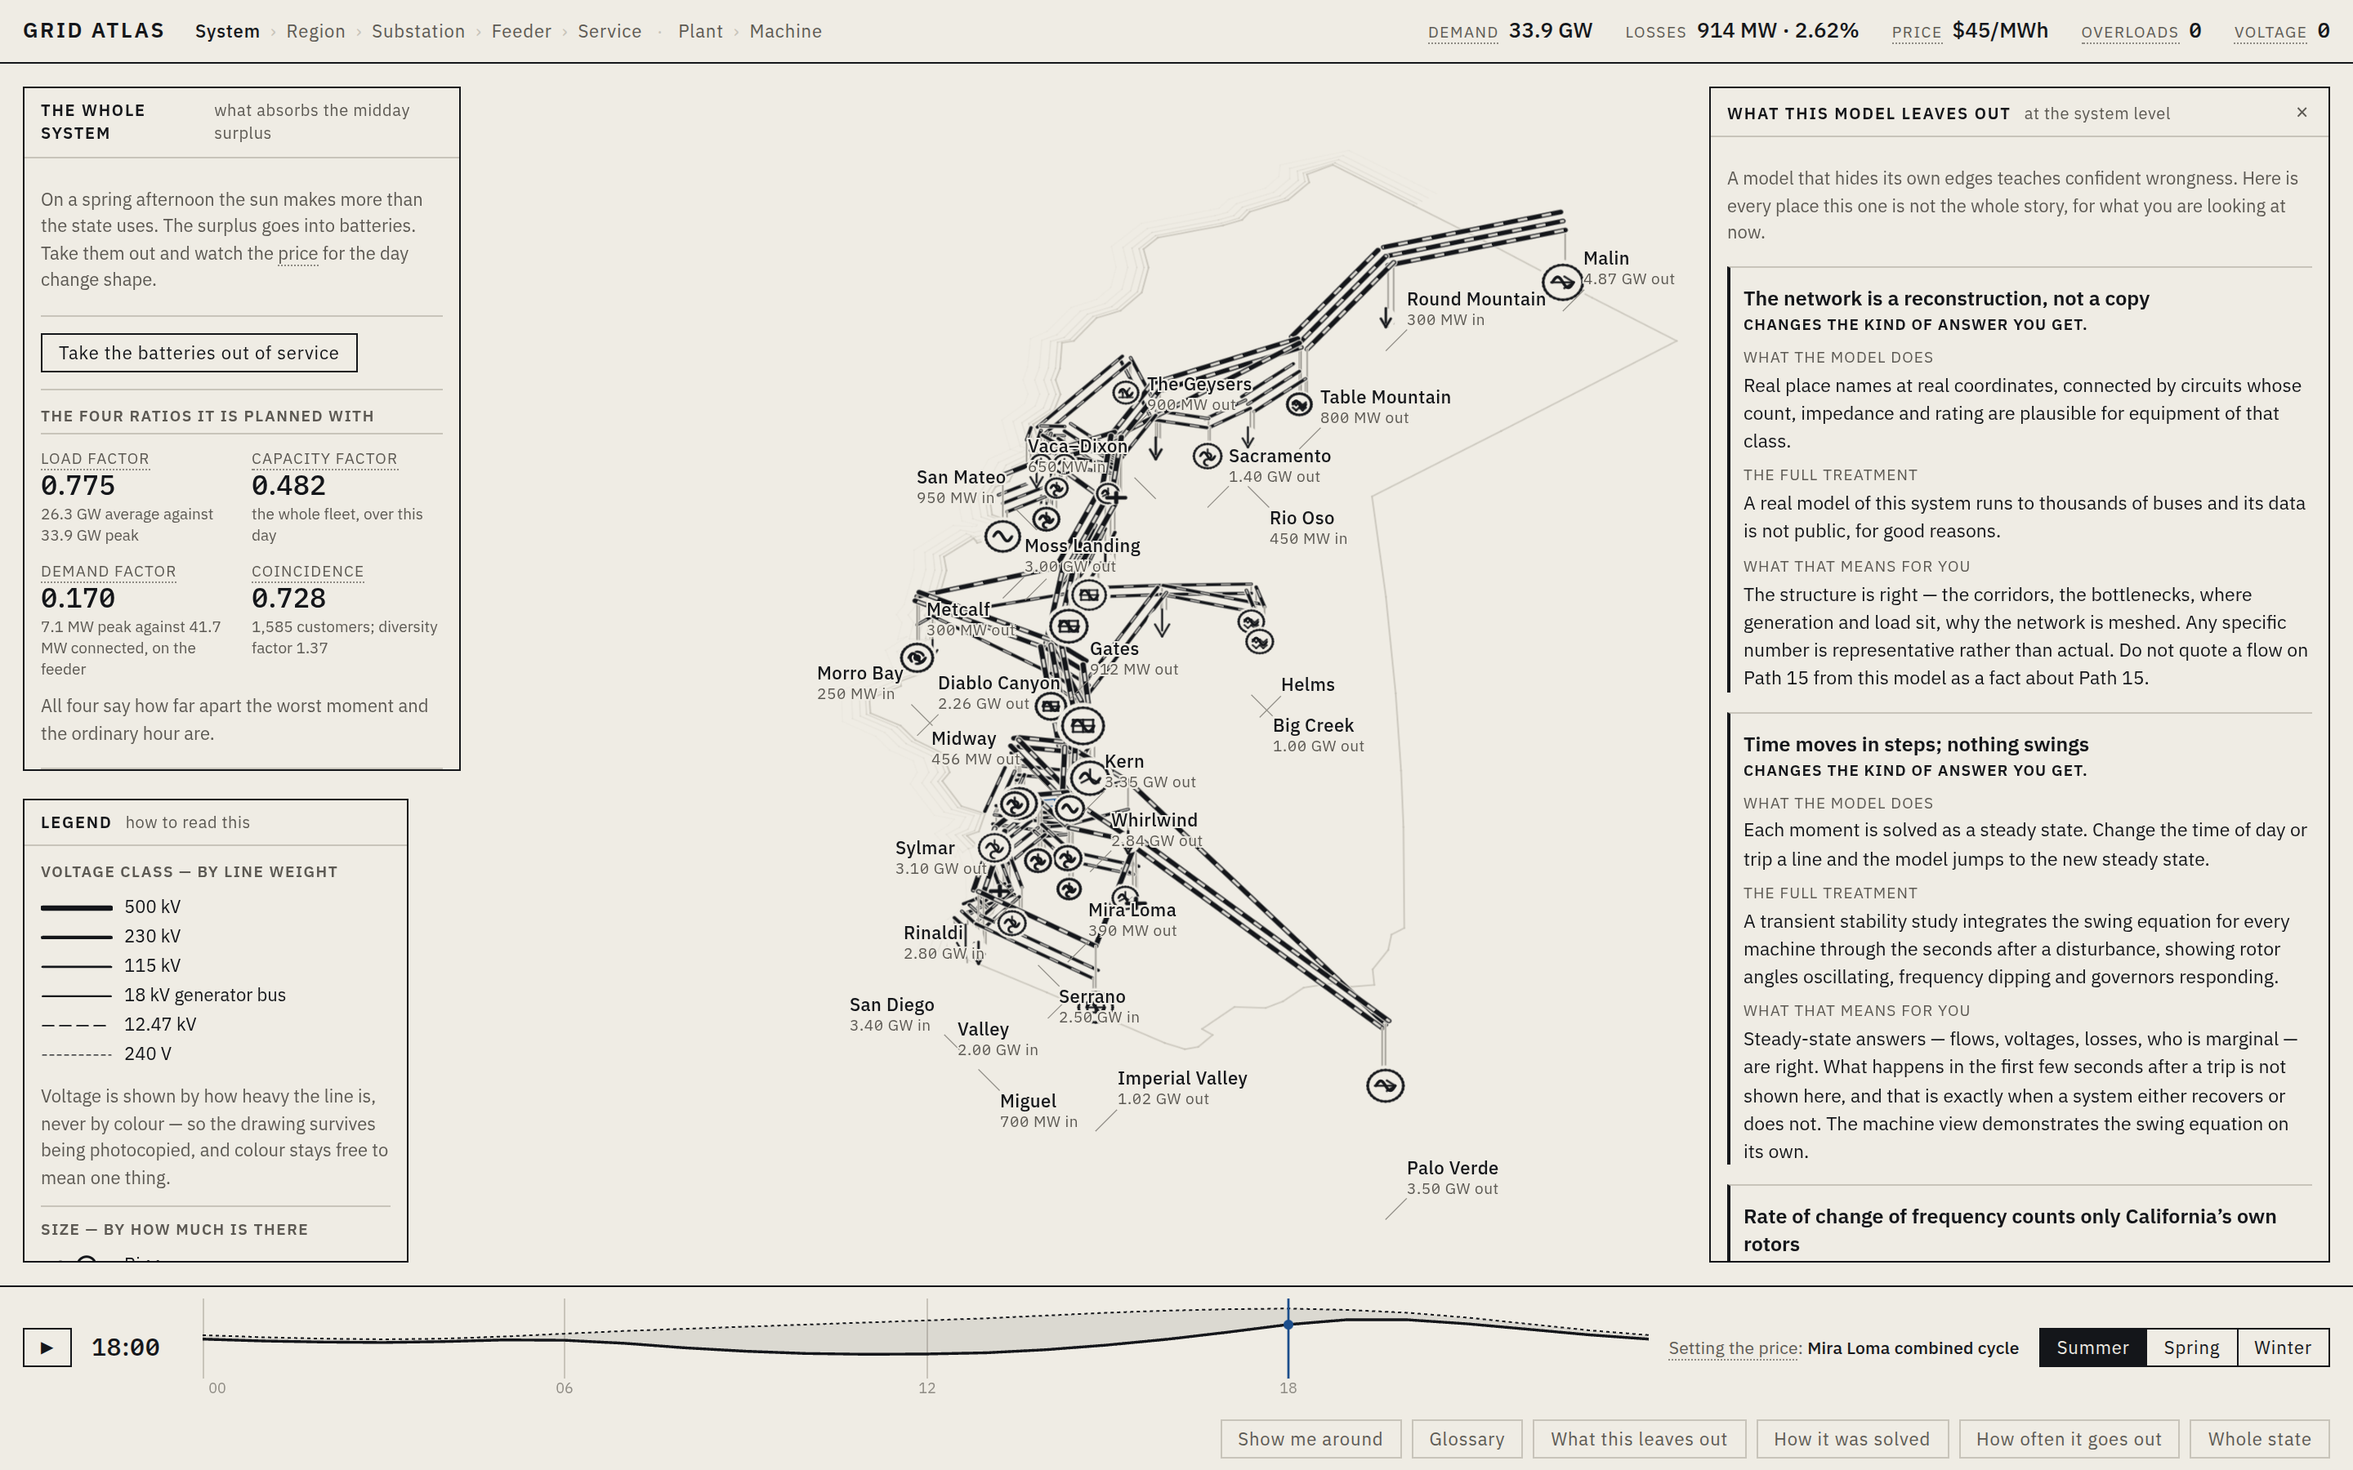
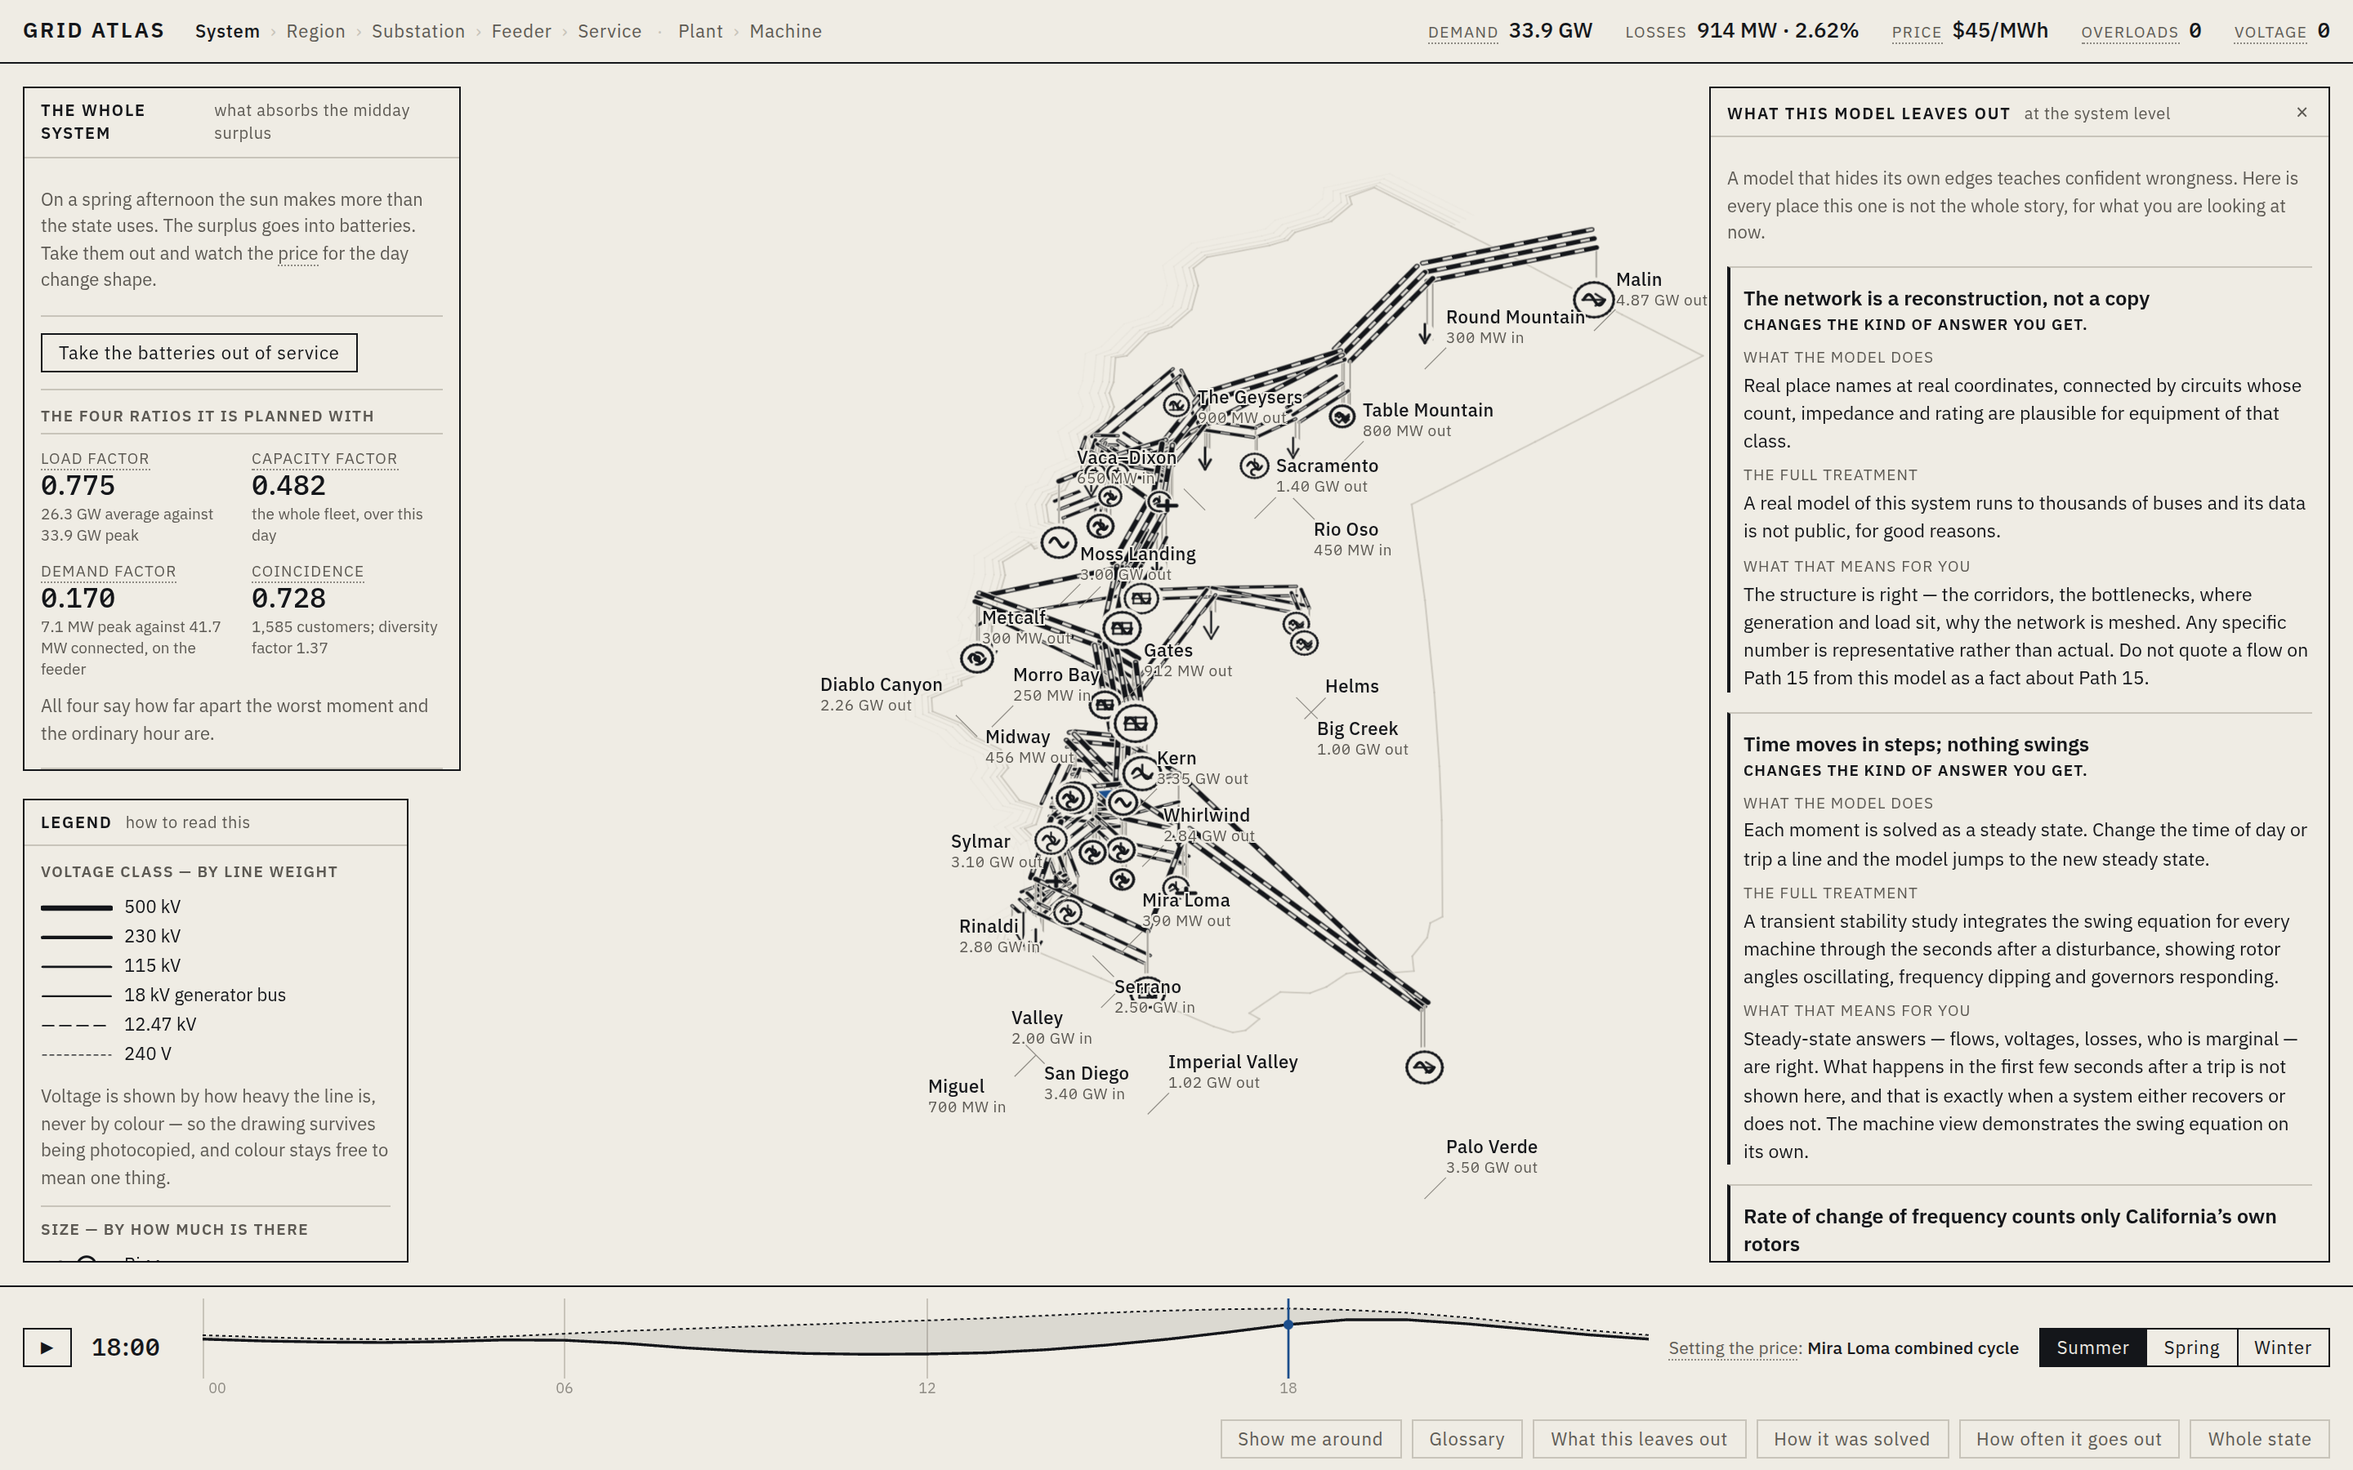
The state is inhabited: demand as a dot-density map
The transmission drawing shows where the wires go and cannot say why they go
there. At region scale that is the whole question — the network is shaped the
way it is because of where the load is — and with only line work on the page a
reader has no way to see it.

Each dot is 25 MW of peak demand, scattered around the substation that carries
it. Dot density is the oldest honest way to draw a quantity on a map: it
claims no boundary, needs no colour scale, and counting the dots gives the
number back. The legend says what one dot is worth, so it is readable rather
than decorative. The scatter is deterministic, seeded from the site id, so it
does not shimmer between frames.

The honesty register says what it is not: the count is real and comes from the
model's own load data; the positions are a drawing choice. The outline of a
scatter is not the outline of a city, and a gap in it means no modelled
substation is near, not empty country.

Also reverts an attempt to frame each destination to its own ground bounds.
It looked like the right idea and made two views worse: ground bounds cannot
see the height of a substation yard or of a screen-aligned cross-section, so
the yard came out smaller than before and the machine landed outside its own
legible band. The hand-tuned scales were tuned against the real drawings.
Framing the whole state still ignores the transient right-hand panels, because
shrinking the map by half while one is open trades a permanent loss for a
temporary gain.
[…]

Changed region(s): [[0.3438, 0.1244, 0.7188, 0.7778], [0.5938, 0.7778, 0.6562, 0.8089]]

diff --git a/src/render/scene-terrain.ts b/src/render/scene-terrain.ts
@@ -127,3 +127,107 @@ export function terrainBounds(): {
   }
   return { min: { x: minX, z: minZ }, max: { x: maxX, z: maxZ } };
 }
+
+// ---------------------------------------------------------------------------
+// Where the people are
+// ---------------------------------------------------------------------------
+
+/**
+ * Demand, as a dot-density map.
+ *
+ * The transmission drawing shows where the wires go and says nothing about why
+ * they go there. At region scale that is the whole question: the network is
+ * shaped the way it is because of where the load is, and with only line work on
+ * the page a reader has no way to see that.
+ *
+ * So each dot is a fixed quantity of peak demand, scattered around the site
+ * that carries it. Dot density is the oldest honest way to draw a quantity on a
+ * map — it does not claim a boundary, it does not need a colour scale, and
+ * counting the dots gives the number back. The legend says what one dot is
+ * worth, so it is readable rather than decorative.
+ *
+ * WHAT IT IS NOT: a map of where the cities are. It is where the MODEL puts its
+ * load, which is at the substations that serve those cities. The scatter radius
+ * is a drawing choice, not data, and the honesty register says so.
+ */
+export const MW_PER_DOT = 25;
+
+/** Deterministic, so the scatter does not shimmer from frame to frame. */
+function hashed(seed: string): () => number {
+  let h = 2166136261;
+  for (let i = 0; i < seed.length; i++) {
+    h ^= seed.charCodeAt(i);
+    h = Math.imul(h, 16777619);
+  }
+  return () => {
+    h ^= h << 13; h >>>= 0;
+    h ^= h >> 17;
+    h ^= h << 5; h >>>= 0;
+    return h / 4294967296;
+  };
+}
+
+export interface DemandSite {
+  id: string;
+  ground: Vector3;
+  peakLoadMW: number;
+}
+
+const dotCache = new Map<string, Vector3[]>();
+
+function dotsFor(site: DemandSite): Vector3[] {
+  const key = `${site.id}:${Math.round(site.peakLoadMW)}`;
+  const hit = dotCache.get(key);
+  if (hit) return hit;
+
+  const n = Math.min(400, Math.round(site.peakLoadMW / MW_PER_DOT));
+  // Bigger loads spread further, because a bigger load is a bigger place —
+  // but a load centre is compact, and too wide a scatter turns a city into a
+  // haze that says nothing.
+  const radius = 1_800 + 520 * Math.sqrt(Math.max(0, site.peakLoadMW));
+  const rand = hashed(site.id);
+  const out: Vector3[] = [];
+  for (let i = 0; i < n; i++) {
+    const angle = rand() * Math.PI * 2;
+    // Square root of a uniform gives an even areal density rather than a
+    // clump at the centre.
+    const r = radius * Math.sqrt(rand());
+    out.push(new Vector3(
+      site.ground.x + r * Math.cos(angle), 0, site.ground.z + r * Math.sin(angle)));
+  }
+  dotCache.set(key, out);
+  return out;
+}
+
+export function drawDemandDots(
+  sites: Iterable<DemandSite>,
+  opacity: number,
+  view: { min: { x: number; z: number }; max: { x: number; z: number } } | null
+): LineSegment[] {
+  const segments: LineSegment[] = [];
+  if (opacity <= 0.004) return segments;
+
+  const cull = view ? (() => {
+    const cx = (view.min.x + view.max.x) / 2;
+    const cz = (view.min.z + view.max.z) / 2;
+    const reach = 0.5 * Math.hypot(
+      view.max.x - view.min.x, view.max.z - view.min.z) + 20_000;
+    return { cx, cz, reach };
+  })() : null;
+
+  for (const site of sites) {
+    if (site.peakLoadMW < MW_PER_DOT) continue;
+    if (cull && Math.hypot(site.ground.x - cull.cx, site.ground.z - cull.cz)
+      > cull.reach + 40_000) continue;
+    for (const d of dotsFor(site)) {
+      if (cull && Math.hypot(d.x - cull.cx, d.z - cull.cz) > cull.reach) continue;
+      // A dot is a zero-length stroke, which the line batch renders as a round
+      // cap — one primitive, no special case.
+      segments.push({
+        a: [d.x, 0, d.z], b: [d.x, 0, d.z],
+        widthPx: 1.6, color: INK.inkFaint, opacity,
+      });
+    }
+  }
+  return segments;
+}

diff --git a/src/app/legend.ts b/src/app/legend.ts
@@ -12,6 +12,7 @@
  */
 
 import { VOLTAGE_CLASSES, INK, SIGNAL, FLOW } from '../render/style.js';
+import { MW_PER_DOT } from '../render/scene-terrain.js';
 import { LEGEND_SYMBOLS, MACHINE_MARKS, MachineMark, symbolToSVG } from '../render/symbols.js';
 import { verticalExaggeration } from '../render/world.js';
 
@@ -43,6 +44,17 @@ function strokeSwatch(weightPx: number, dash: number[], color: string = INK.ink)
     `<svg viewBox="0 0 44 14" width="44" height="14" fill="none">` +
     `<line x1="1" y1="7" x2="43" y2="7" stroke="${color}" ` +
     `stroke-width="${weightPx}" stroke-linecap="round"${dashAttr} /></svg>`
+  );
+}
+
+/** A scatter, to say that one dot is a fixed quantity of demand. */
+function dotSwatch(): string {
+  const at = [[4, 9], [9, 4], [13, 10], [18, 6], [22, 11], [27, 5], [30, 9]];
+  return (
+    `<svg width="34" height="14" viewBox="0 0 34 14" aria-hidden="true">` +
+    at.map(([x, y]) =>
+      `<circle cx="${x}" cy="${y}" r="0.9" fill="${INK.inkFaint}"/>`).join('') +
+    `</svg>`
   );
 }
 
@@ -118,6 +130,16 @@ export class Legend {
       'A site symbol is drawn larger where there is more generating capacity, ' +
       'or more demand. Square-rooted, so a four-gigawatt station is about six ' +
       'times the area of a hundred-megawatt one rather than forty.'
+    );
+
+    // --- What the scatter of dots is ---------------------------------------
+    const d = this.group('Where the demand is');
+    this.row(
+      d, dotSwatch(), `One dot is ${MW_PER_DOT} MW of peak demand`,
+      'Scattered around the substation that carries it, so the drawing shows ' +
+      'why the network goes where it goes. Counting the dots gives the number ' +
+      'back. It is not a map of the cities: it is where this model puts its ' +
+      'load, and the spread is a drawing choice.'
     );
 
     // --- The one signal colour ---------------------------------------------

diff --git a/src/app/scenes.ts b/src/app/scenes.ts
@@ -44,7 +44,7 @@ import { drawSubstation, substationBounds } from '../render/scene-substation.js'
 import { FeederGeometry, drawFeeder } from '../render/scene-feeder.js';
 import { drawService, serviceBounds } from '../render/scene-service.js';
 import { drawGround, groundBounds } from '../render/scene-ground.js';
-import { drawTerrain } from '../render/scene-terrain.js';
+import { drawTerrain, drawDemandDots } from '../render/scene-terrain.js';
 import { drawPlant, plantBounds } from '../render/scene-plant.js';
 import { drawMachine, machineBounds } from '../render/scene-machine.js';
 import { Generator } from '../core/network.js';
@@ -255,8 +255,23 @@ export function composeFrame(input: ComposeInput): ComposeResult {
   // Visible wherever the transmission drawing is, and gone once the window is
   // small enough that the nearest coastline is a hundred kilometres away.
   if (mpp > 12) {
-    const shore = drawTerrain(Math.min(1, (mpp - 12) / 40), view);
-    segments.push(...shore.segments);
+    const near = Math.min(1, (mpp - 12) / 40);
+    segments.push(...drawTerrain(near, view).segments);
+
+    // Where the demand is, as a dot-density map. It answers the question the
+    // transmission drawing raises and cannot answer on its own: why the network
+    // is shaped the way it is. Faded out once the whole state no longer fits,
+    // where individual dots would be kilometres apart and say nothing.
+    const dotAlpha = near * Math.min(1, Math.max(0, (2600 - mpp) / 900));
+    if (dotAlpha > 0.01) {
+      segments.push(...drawDemandDots(
+        [...input.systemGeometry.sites.values()].map((n) => ({
+          id: n.site.id, ground: n.ground, peakLoadMW: n.peakLoadMW,
+        })),
+        dotAlpha * 0.62,
+        view
+      ));
+    }
   }
 
   // --- the ground, before anything electrical -------------------------------

diff --git a/src/data/simplifications.ts b/src/data/simplifications.ts
@@ -621,6 +621,26 @@ export const SIMPLIFICATIONS: Simplification[] = [
       'apart from the one that is labelled.',
     severity: 'cosmetic',
   },
+  {
+    id: 'demand-dots',
+    scope: ['system', 'region'],
+    title: 'The scatter of dots is where the LOAD is, not where the cities are',
+    whatWeDo:
+      'Each dot is a fixed quantity of peak demand, scattered at random within ' +
+      'a radius of the substation that carries it. The COUNT is real \u2014 it ' +
+      'comes from the model\u2019s own load data and counting the dots gives the ' +
+      'megawatts back. The positions are not.',
+    fullTreatment:
+      'A real map of demand comes from census and land-use data, or from the ' +
+      'utility\u2019s own meter density, and has boundaries: this block is ' +
+      'residential, that one is a data centre.',
+    consequence:
+      'The shape is right at the scale of a region \u2014 the network visibly ' +
+      'goes where the people are, which is the point. Do not read the outline ' +
+      'of a scatter as the outline of a city, and do not read a gap in it as ' +
+      'empty country. It means no modelled substation is near.',
+    severity: 'cosmetic',
+  },
 ];
 
 export const simplificationsFor = (scope: ScopeId): Simplification[] =>

diff --git a/src/app/main.ts b/src/app/main.ts
@@ -307,7 +307,15 @@ function goTo(id: LevelId): void {
     // Frame by computing the camera the box wants, then fly to it, so that the
     // motion is one continuous move rather than a jump followed by a settle.
     const before = { target: viewport.camera.target.clone(), mpp: viewport.camera.metresPerPixel };
-    viewport.camera.frame(box.min, box.max, 56, { left: 252, bottom: profileInsetPx() });
+    // The left inset is the controls and the legend, which are always there.
+    // The right-hand panels are deliberately NOT counted here: framing the
+    // whole state is about the map, and shrinking the map by half because a
+    // transient panel is open trades a permanent loss for a temporary gain.
+    // The point-and-scale path below still pans for them, which is the part
+    // that matters — it keeps what you flew to out from under the panel.
+    viewport.camera.frame(box.min, box.max, 56, {
+      left: 300, bottom: profileInsetPx(),
+    });
     const after = { target: viewport.camera.target.clone(), mpp: viewport.camera.metresPerPixel };
     viewport.camera.target.copy(before.target);
     viewport.camera.setZoom(before.mpp);

diff --git a/docs/simplifications.md b/docs/simplifications.md
@@ -346,6 +346,16 @@ Severity is how badly a simplification would change an answer:
 
 **What that means for you.** The SCALE is right — block sizes, lot widths and setbacks are the ordinary dimensions of American suburban development, so the sense of how much street a megawatt covers is honest. Which house is which is not, and no house drawn here is the one whose service is modelled, apart from the one that is labelled.
 
+### The scatter of dots is where the LOAD is, not where the cities are
+
+*Applies to: system, region* · `demand-dots`
+
+**What the model does.** Each dot is a fixed quantity of peak demand, scattered at random within a radius of the substation that carries it. The COUNT is real — it comes from the model’s own load data and counting the dots gives the megawatts back. The positions are not.
+
+**What the full treatment would involve.** A real map of demand comes from census and land-use data, or from the utility’s own meter density, and has boundaries: this block is residential, that one is a data centre.
+
+**What that means for you.** The shape is right at the scale of a region — the network visibly goes where the people are, which is the point. Do not read the outline of a scatter as the outline of a city, and do not read a gap in it as empty country. It means no modelled substation is near.
+
 ---
 
-*32 entries.*
+*33 entries.*
